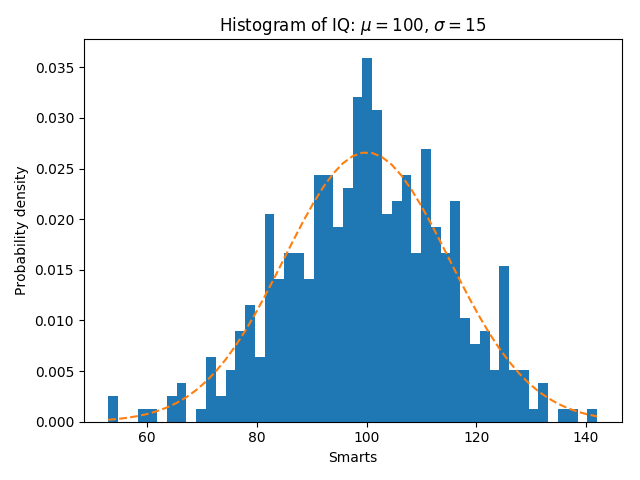
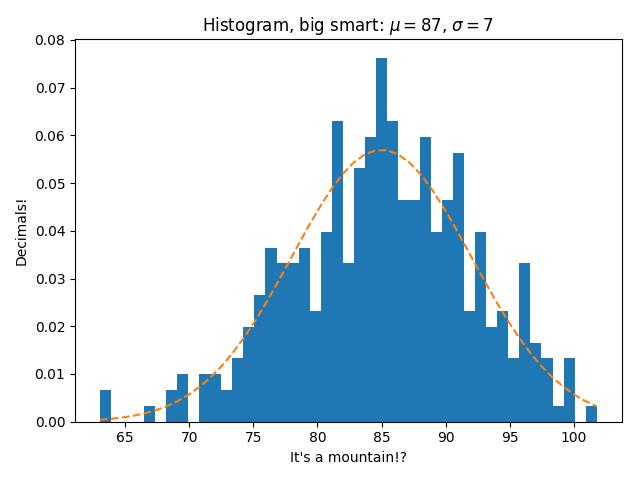
my mean graph

diff --git a/graphing/myGraph01.py b/graphing/myGraph01.py
@@ -6,11 +6,11 @@ import matplotlib.pyplot as plt
 np.random.seed(19680801)
 
 # example data
-mu = 100  # mean of distribution
-sigma = 15  # standard deviation of distribution
-x = mu + sigma * np.random.randn(437)
+mu = 85  # mean of distribution
+sigma = 7  # standard deviation of distribution
+x = mu + sigma * np.random.randn(350)
 
-num_bins = 50
+num_bins = 45
 
 fig, ax = plt.subplots()
 
@@ -21,9 +21,9 @@ n, bins, patches = ax.hist(x, num_bins, density=True)
 y = ((1 / (np.sqrt(2 * np.pi) * sigma)) *
      np.exp(-0.5 * (1 / sigma * (bins - mu))**2))
 ax.plot(bins, y, '--')
-ax.set_xlabel('Smarts')
-ax.set_ylabel('Probability density')
-ax.set_title(r'Histogram of IQ: $\mu=100$, $\sigma=15$')
+ax.set_xlabel('It\'s a mountain!?')
+ax.set_ylabel('Decimals!')
+ax.set_title(r'Histogram, big smart: $\mu=87$, $\sigma=7$')
 
 # Tweak spacing to prevent clipping of ylabel
 fig.tight_layout()
